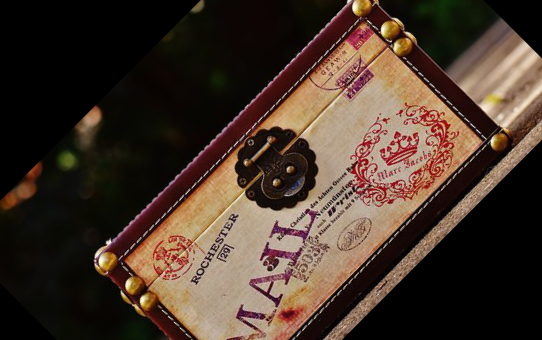
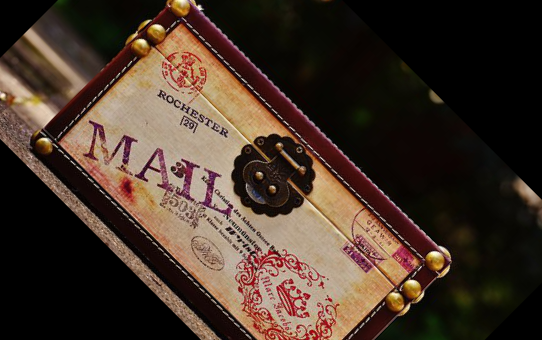
clockwise

diff --git a/OpenCV_4/21.cpp b/OpenCV_4/21.cpp
@@ -20,7 +20,7 @@
 //
 //	// =======================================================
 //
-//	Mat rotated = rotate(originBriefcase, 45);
+//	Mat rotated = rotate(originBriefcase, -45);
 //
 //	// =======================================================
 //
